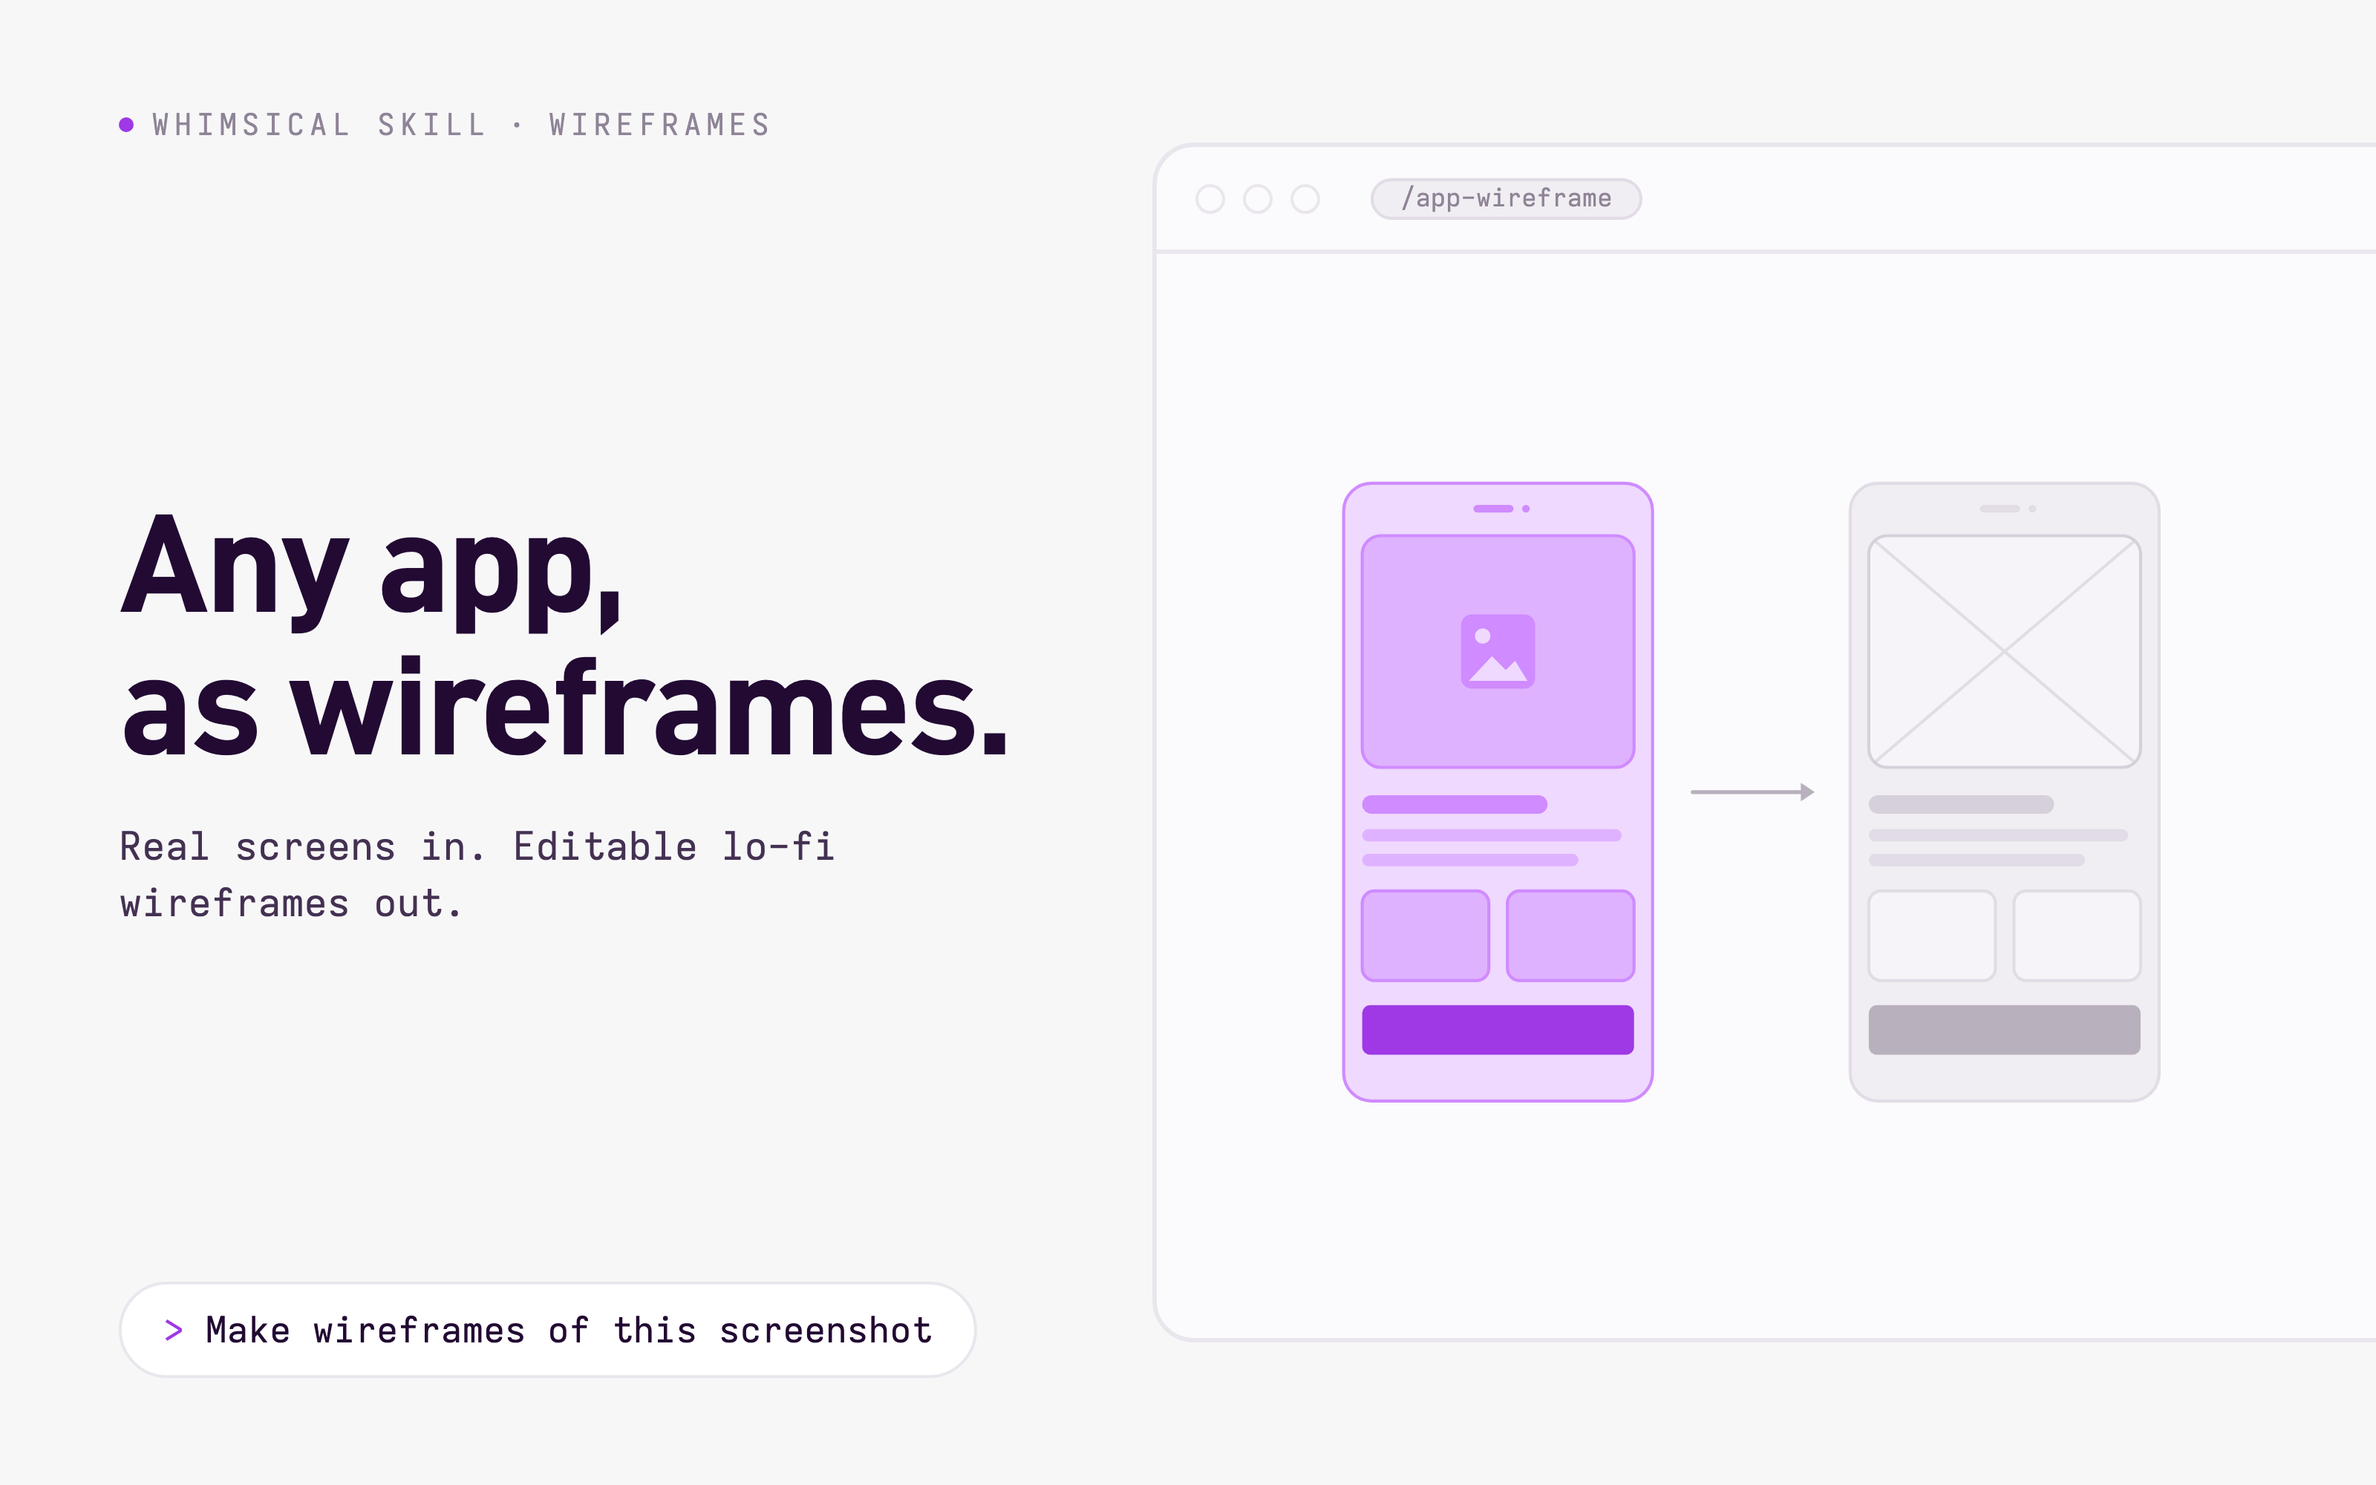
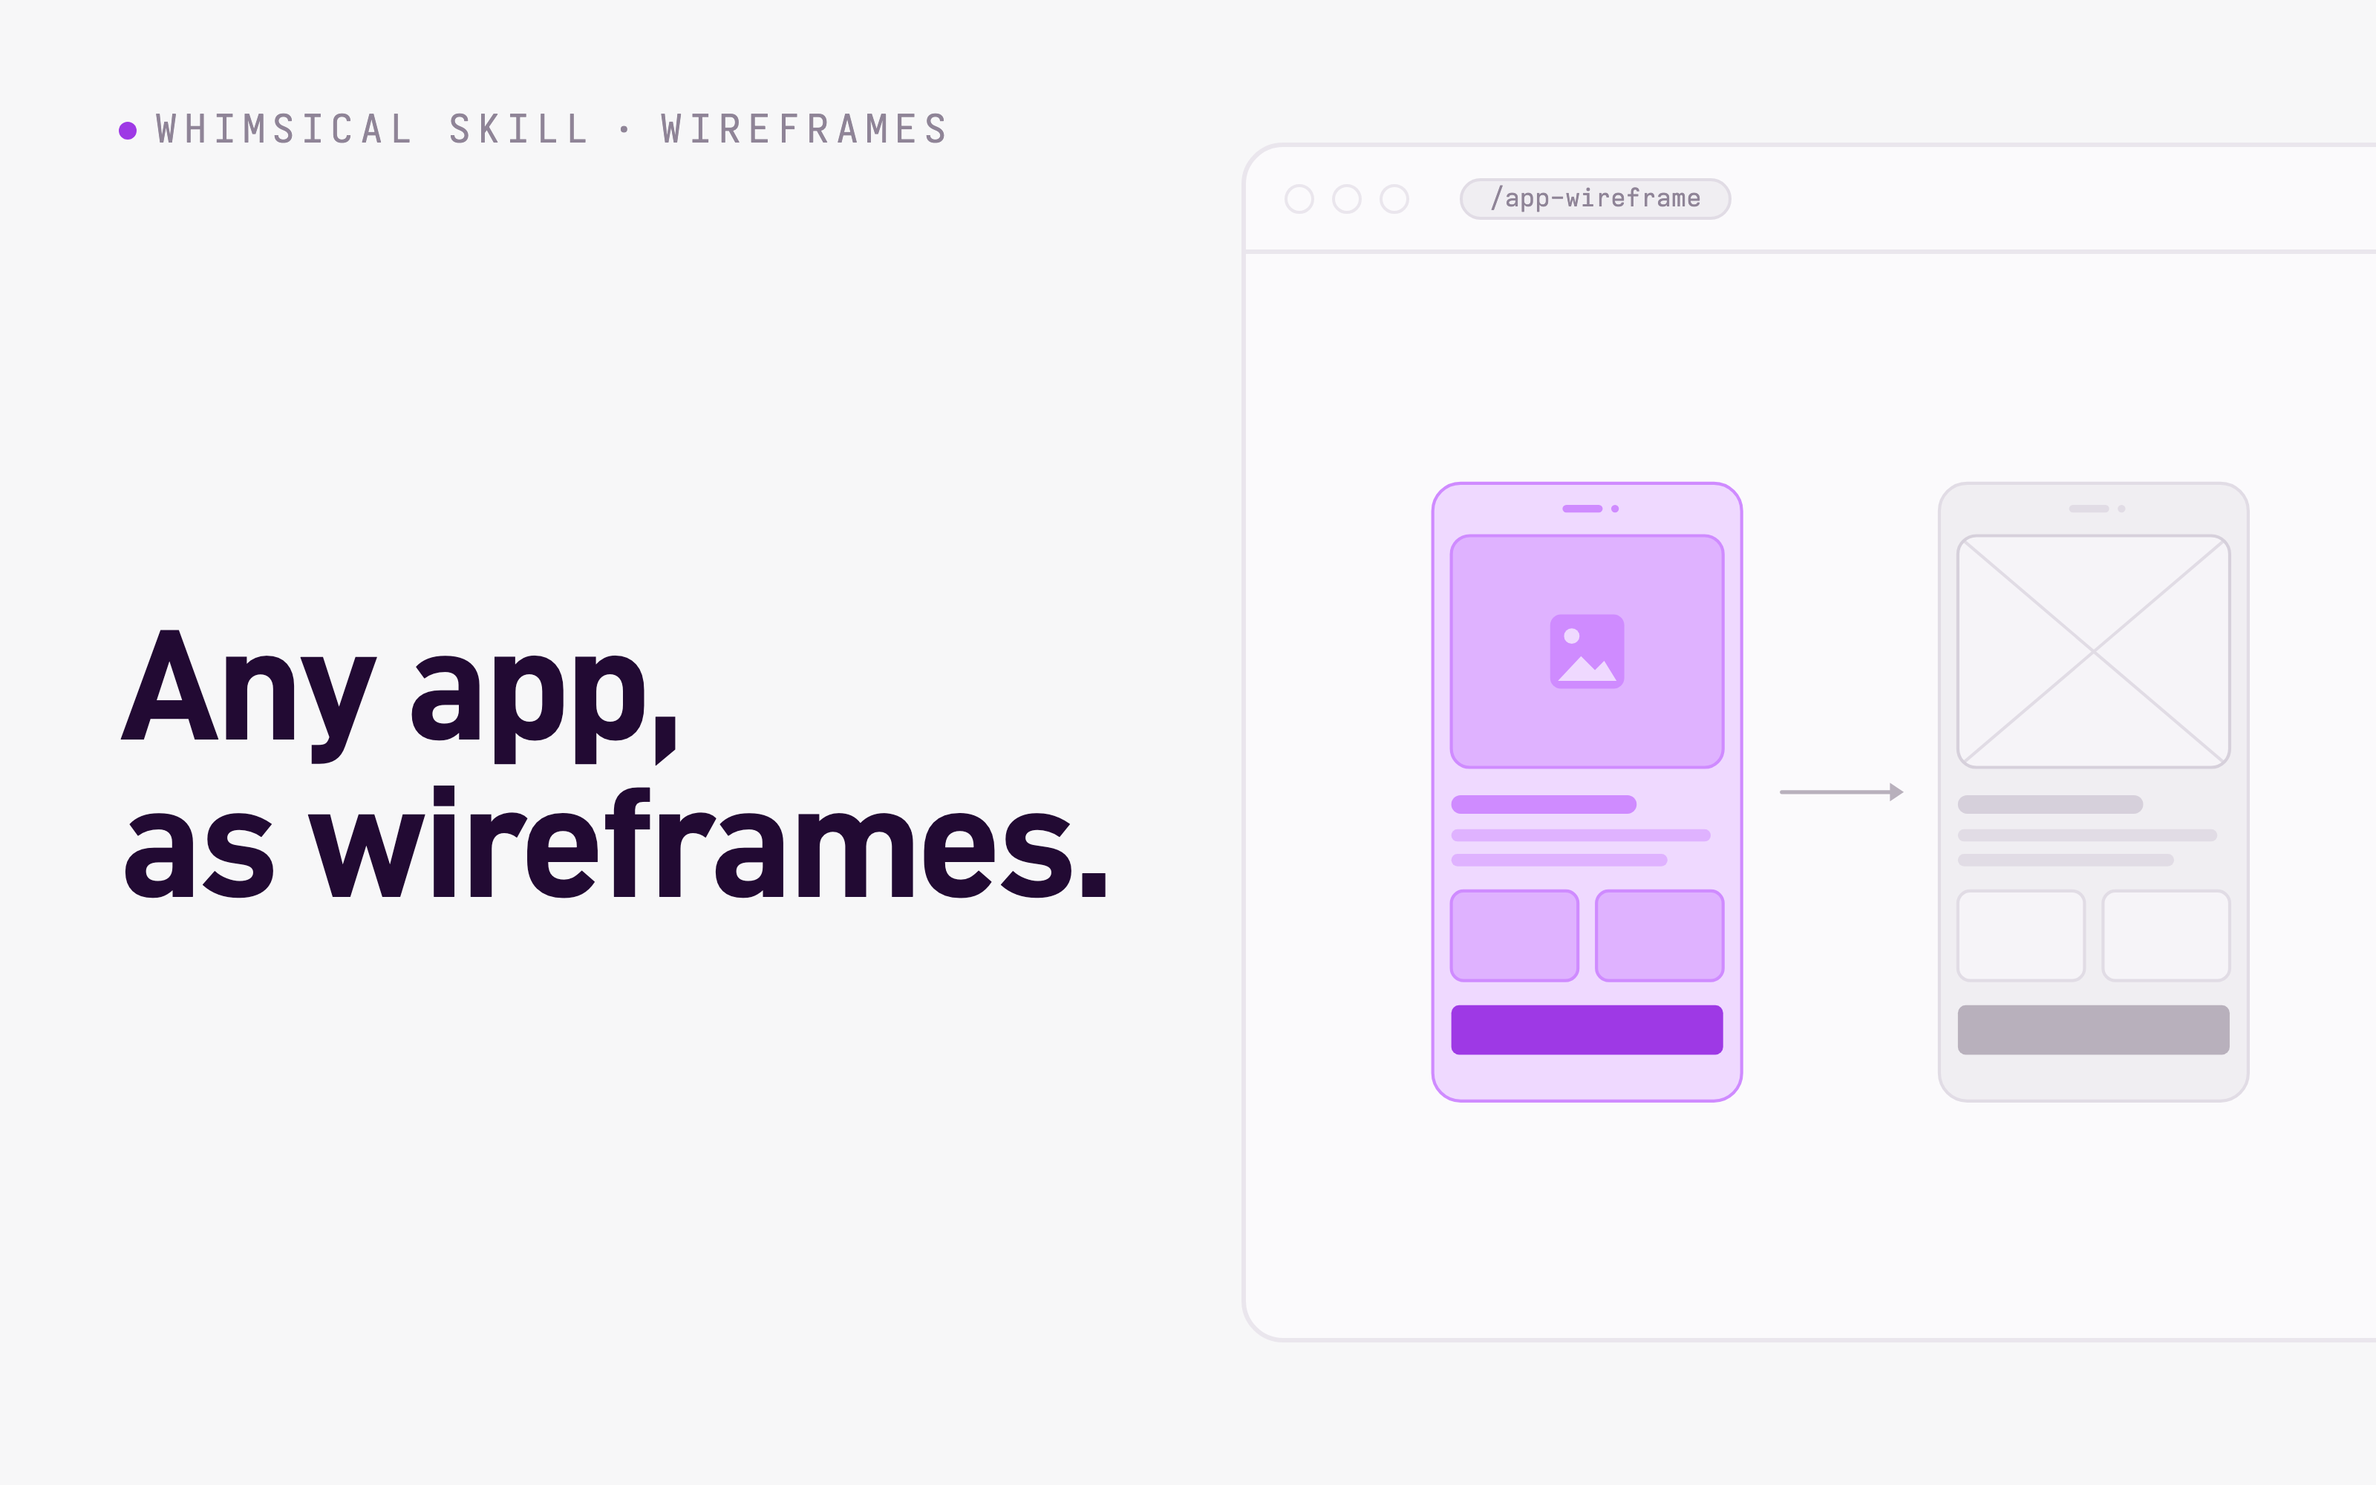
Simplify covers and shape the guides for whimsical.com/skills
Covers keep the category, a larger headline and the illustration; the page around
them already shows the description and a prompt. Each guide's coding-agents caveat
moves from the intro, which is the website summary, to a Status section. The
website turns each Install subsection into a tab, so the last one is now
'Other agents (...)', and tests/repo checks the Install section's shape.

Drop the deploy-hook step: the website is redeployed by hand after a release.

diff --git a/docs/covers/template.html b/docs/covers/template.html
@@ -9,21 +9,17 @@
   @font-face { font-family: Monsical; src: url("fonts/Monsical-Regular.woff2"); font-weight: 400; }
   * { box-sizing: border-box; margin: 0; padding: 0; }
   :root {
-    --ink: #220a33; --ink-2: #443152; --muted: #8f8497;
+    --ink: #220a33; --muted: #8f8497;
     --bg: #f7f7f8; --canvas: #fbfafc; --line: #eae6ed; --bar: #e1dce5; --purple: #9e39e5;
   }
   body { width: 1600px; height: 1000px; overflow: hidden; font-family: Monsical, monospace; color: var(--ink); background: var(--bg); position: relative; }
-  .text { position: absolute; left: 80px; top: 72px; bottom: 72px; width: 640px; display: flex; flex-direction: column; }
-  .kicker { font-size: 20px; letter-spacing: 0.16em; text-transform: uppercase; color: var(--muted); display: flex; gap: 12px; align-items: center; }
-  .kicker .dot { width: 10px; height: 10px; border-radius: 50%; background: var(--purple); }
-  .headline-group { margin: auto 0; }
-  h1 { font-family: Dinsical, sans-serif; font-size: 96px; line-height: 1; font-weight: 700; letter-spacing: -0.02em; white-space: pre-line; }
-  .subtitle { margin-top: 28px; font-size: 26px; line-height: 1.45; color: var(--ink-2); max-width: 560px; }
-  .prompt { align-self: flex-start; font-size: 24px; background: #fff; border: 2px solid var(--line); border-radius: 999px; padding: 16px 28px; display: flex; gap: 14px; }
-  .prompt .caret { color: var(--purple); }
+  .text { position: absolute; left: 80px; top: 72px; bottom: 72px; width: 720px; display: flex; flex-direction: column; }
+  .kicker { font-size: 26px; letter-spacing: 0.16em; text-transform: uppercase; color: var(--muted); display: flex; gap: 12px; align-items: center; }
+  .kicker .dot { width: 12px; height: 12px; border-radius: 50%; background: var(--purple); }
+  h1 { margin: auto 0; font-family: Dinsical, sans-serif; font-size: 108px; line-height: 0.98; white-space: pre; font-weight: 700; letter-spacing: -0.025em; }
 
   /* The browser window from the tool cards on whimsical.com, running off the right edge. */
-  .window { position: absolute; left: 776px; top: 96px; width: 900px; height: 808px; background: var(--canvas); border: 3px solid var(--line); border-radius: 28px; overflow: hidden; }
+  .window { position: absolute; left: 836px; top: 96px; width: 900px; height: 808px; background: var(--canvas); border: 3px solid var(--line); border-radius: 28px; overflow: hidden; }
   .chrome { height: 72px; border-bottom: 3px solid var(--line); display: flex; align-items: center; gap: 12px; padding: 0 26px; }
   .chrome .dot { width: 20px; height: 20px; border-radius: 50%; border: 2px solid var(--line); background: var(--canvas); }
   .chrome .url { margin-left: 22px; height: 28px; border-radius: 14px; background: #f0eef2; border: 2px solid var(--bar); padding: 0 18px; display: flex; align-items: center; font-size: 17px; color: var(--muted); }
@@ -34,11 +30,7 @@
 <body>
   <div class="text">
     <div class="kicker"><span class="dot"></span>Whimsical skill <span>·</span> <span data-field="category"></span></div>
-    <div class="headline-group">
-      <h1 data-field="headline"></h1>
-      <p class="subtitle" data-field="subtitle"></p>
-    </div>
-    <div class="prompt"><span class="caret">&gt;</span><span data-field="prompt"></span></div>
+    <h1 data-field="headline"></h1>
   </div>
   <div class="window">
     <div class="chrome"><span class="dot"></span><span class="dot"></span><span class="dot"></span><span class="url" data-field="slug"></span></div>

diff --git a/tests/repo/test_repo.py b/tests/repo/test_repo.py
@@ -16,7 +16,7 @@ SKILLS = sorted(p for p in (ROOT / "skills").iterdir() if p.is_dir())
 MARKETPLACE = json.loads((ROOT / ".claude-plugin" / "marketplace.json").read_text())
 FRONTMATTER_KEYS = {"name", "description", "license", "metadata", "allowed-tools"}
 COVERS = ROOT / "docs" / "covers"
-COVER_KEYS = {"category", "headline", "subtitle", "prompt"}
+COVER_KEYS = {"category", "headline"}
 # Distribution names whose import name differs.
 IMPORT_NAMES = {"pillow": "PIL"}
 
@@ -104,6 +104,12 @@ def test_guide_intro_is_what_the_website_shows(skill):
     first = intro.split("\n\n", 1)[0]
     assert not first.startswith(("```", "!", "[!", "|", "-")), "the intro opens with a paragraph of prose"
     assert re.search(r"^```text\n.+?\n```$", intro, re.S | re.M), "the intro has a ```text block with a prompt"
+    install = re.search(r"^## Install\n(.*?)(?=^## |\Z)", guide, re.S | re.M)
+    assert install, "the guide has an '## Install' section"
+    tabs = re.findall(r"^### (.+)$", install[1], re.M)
+    assert len(tabs) >= 2, "'## Install' has one '### ' subsection per agent"
+    labels = [t.split(" (")[0] for t in tabs]
+    assert all(len(label) <= 20 for label in labels), f"tab names, before ' (', stay short: {labels}"
 
 
 @pytest.mark.parametrize("skill", SKILLS, ids=lambda p: p.name)

diff --git a/docs/covers/README.md b/docs/covers/README.md
@@ -2,7 +2,9 @@
 
 Every skill has a cover: a 1600x1000 image, saved at 2x, that whimsical.com shows on the
 skill's card and at the top of its page. All covers share one layout, `template.html`; what
-changes per skill is a short text spec and one illustration.
+changes per skill is a two-line text spec and one illustration. The page around the cover
+already says what the skill does and shows a prompt, so the cover only names the skill's
+promise and shows it.
 
 ![The renewal-timeline cover](renewal-timeline.png)
 
@@ -15,20 +17,14 @@ For a skill named `<name>`:
    ```json
    {
      "category": "Go to market",
-     "headline": "Every renewal,\non one timeline.",
-     "subtitle": "Emails and CRM in. Offers, prices and the write-up out.",
-     "prompt": "Build the renewal timeline for Acme"
+     "headline": "Every renewal,\non one timeline."
    }
    ```
 
    - `category`: the kind of work, in two or three words, like `Wireframes` or
      `Go to market`.
-   - `headline`: the promise, in at most two lines of about 16 characters each. Put the
+   - `headline`: the promise, in at most two lines of about 15 characters each. Put the
      line break in yourself with `\n`.
-   - `subtitle`: what goes in and what comes out, in one sentence of about 60 characters:
-     "X in. Y out."
-   - `prompt`: a general prompt anyone could type, with a fictional company such as Acme
-     or "this screenshot". Not a real customer or a real app.
 
 2. Draw `art/<name>.svg`, following the style below.
 3. Render it, then look at `<name>.png` before committing it:

diff --git a/docs/renewal-timeline.md b/docs/renewal-timeline.md
@@ -15,11 +15,6 @@ NRR, usage if you have the numbers, and the open items.
 
 ![Example timeline: a fictional Initech renewal](renewal-timeline.png)
 
-This is a new project, and most of it was written by coding agents. We've used it at
-Whimsical on real renewals, in Claude Code and on claude.ai, but it hasn't been tested much
-with other agents or tools. If something breaks, please
-[open an issue](https://github.com/WhimsicalCode/skills/issues/new/choose).
-
 ## What you'll get
 
 A new board called `<Customer> <Year> Renewal Timeline`:
@@ -38,6 +33,13 @@ and the open items.
 
 Ask again later, with new emails or a few lines of what happened, and the agent adds the new
 steps to the same board.
+
+## Status
+
+This is a new project, and most of it was written by coding agents. We've used it at
+Whimsical on real renewals, in Claude Code and on claude.ai, but it hasn't been tested much
+with other agents or tools. If something breaks, please
+[open an issue](https://github.com/WhimsicalCode/skills/issues/new/choose).
 
 ## Requirements
 
@@ -90,7 +92,7 @@ If you already had Whimsical configured, you'll see it twice in `/mcp`; disable 
 3. Still in **Customize**, under **Connectors**, add Whimsical, and the connector for your
    email or CRM.
 
-### Cursor, Codex, GitHub Copilot, Gemini CLI and other agents
+### Other agents (Cursor, Codex, GitHub Copilot, Gemini CLI and more)
 
 With [Node.js](https://nodejs.org) installed, run this in a terminal:
 

diff --git a/docs/app-wireframe.md b/docs/app-wireframe.md
@@ -15,10 +15,6 @@ you'd move through the app, each rebuilt as a lo-fi iPhone wireframe. Cards, tab
 and list rows are grouped, so you can drag them around and start editing right away.
 Every wireframe links back to its screen on Mobbin.
 
-This is a new project, and most of it was written by coding agents. We've used it at
-Whimsical to [wireframe 20 apps](#examples), but it hasn't been tested much with other agents or
-setups. If something breaks, please [open an issue](https://github.com/WhimsicalCode/skills/issues).
-
 ## Two ways in
 
 ### Name an app, with the Mobbin MCP
@@ -88,6 +84,12 @@ Mobbin.
 
 The apps belong to their makers. Whimsical isn't affiliated with any of them.
 
+## Status
+
+This is a new project, and most of it was written by coding agents. We've used it at
+Whimsical to [wireframe 20 apps](#examples), but it hasn't been tested much with other agents or
+setups. If something breaks, please [open an issue](https://github.com/WhimsicalCode/skills/issues).
+
 ## Requirements
 
 - An agent that supports skills, remote MCP servers and images, such as
@@ -147,7 +149,7 @@ with your own screenshots, and please
 3. Still in **Customize**, under **Connectors**, add Whimsical, and Mobbin if you have a
    Mobbin plan.
 
-### Cursor, Codex, GitHub Copilot, Gemini CLI and other agents
+### Other agents (Cursor, Codex, GitHub Copilot, Gemini CLI and more)
 
 With [Node.js](https://nodejs.org) installed, run this in a terminal:
 

diff --git a/README.md b/README.md
@@ -49,7 +49,7 @@ Or install it as a plugin, which adds the MCP servers for you:
 3. Still in **Customize**, under **Connectors**, add Whimsical and any other connector
    the skill's guide lists.
 
-### Cursor, Codex, GitHub Copilot, Gemini CLI and other agents
+### Other agents (Cursor, Codex, GitHub Copilot, Gemini CLI and more)
 
 With [Node.js](https://nodejs.org) installed, run this in a terminal, with the skill's
 name and your agent:
@@ -75,7 +75,7 @@ docs/covers/                      each skill's cover for whimsical.com, and how 
 tests/<name>/                     each skill's tests, outside the skill so they stay out of its zip
 tests/repo/                       checks every skill against the conventions
 .claude-plugin/marketplace.json   the Claude Code catalog: each skill's version and MCP servers
-.github/workflows/                tests on every change; per tag, a release zip of every skill and a website rebuild
+.github/workflows/                tests on every change; a release zip of every skill per tag
 ```
 
 [CONTRIBUTING.md](CONTRIBUTING.md) explains how to change or add a skill, and

diff --git a/CONVENTIONS.md b/CONVENTIONS.md
@@ -74,6 +74,13 @@ release, built from this repository. Each skill's page shows:
   `docs/covers/art/<name>.svg` *(tested)*.
   [docs/covers/README.md](docs/covers/README.md) explains how to make one.
 - The MCP servers it connects to, from its `marketplace.json` entry.
+- Its install steps, the guide's `## Install` section: the paragraph under the heading,
+  then one tab per `### ` heading, named by the heading's text before any ` (` *(tested)*.
+  Code blocks there get a copy button, so keep each one a set of commands to run as is.
+- An example board, if the intro's image links to one: `[![alt](image.png)](board URL)`.
+
+Keep the intro about what the skill does. Caveats, like how new the skill is, go in a
+later section (`## Status`), so they stay in the guide but off the website.
 
 The page's URL is `whimsical.com/skills/<name>`, so renaming a skill breaks its link.
 

diff --git a/AGENTS.md b/AGENTS.md
@@ -10,5 +10,7 @@ before changing a skill and [CONTRIBUTING.md](CONTRIBUTING.md) before adding one
   `uv run --group dev ruff check .`, then `uv run --group dev pytest tests/repo` and
   `uv run --group dev pytest tests/<name>` for each skill you touched.
 - Bump the skill's version in `marketplace.json` when you change it.
+- A new skill needs a cover for whimsical.com/skills: follow
+  [docs/covers/README.md](docs/covers/README.md), then render and look at it.
 - Don't run a skill against real Whimsical boards, Mobbin or customer data unless the
   person you're working with asks you to.

diff --git a/CONTRIBUTING.md b/CONTRIBUTING.md
@@ -67,5 +67,6 @@ git tag v2026.11.06 && git push origin v2026.11.06
 Add a suffix for a second release on the same day, like `v2026.11.06.2`. Users of the
 Claude Code marketplace get updates from `main` without a release.
 
-A release also rebuilds [whimsical.com/skills](https://whimsical.com/skills), which shows
-the skills as they are in the latest release.
+[whimsical.com/skills](https://whimsical.com/skills) shows the skills as they are in the
+latest release, from the website's next deploy. Redeploy the website after a release to
+publish it there.
